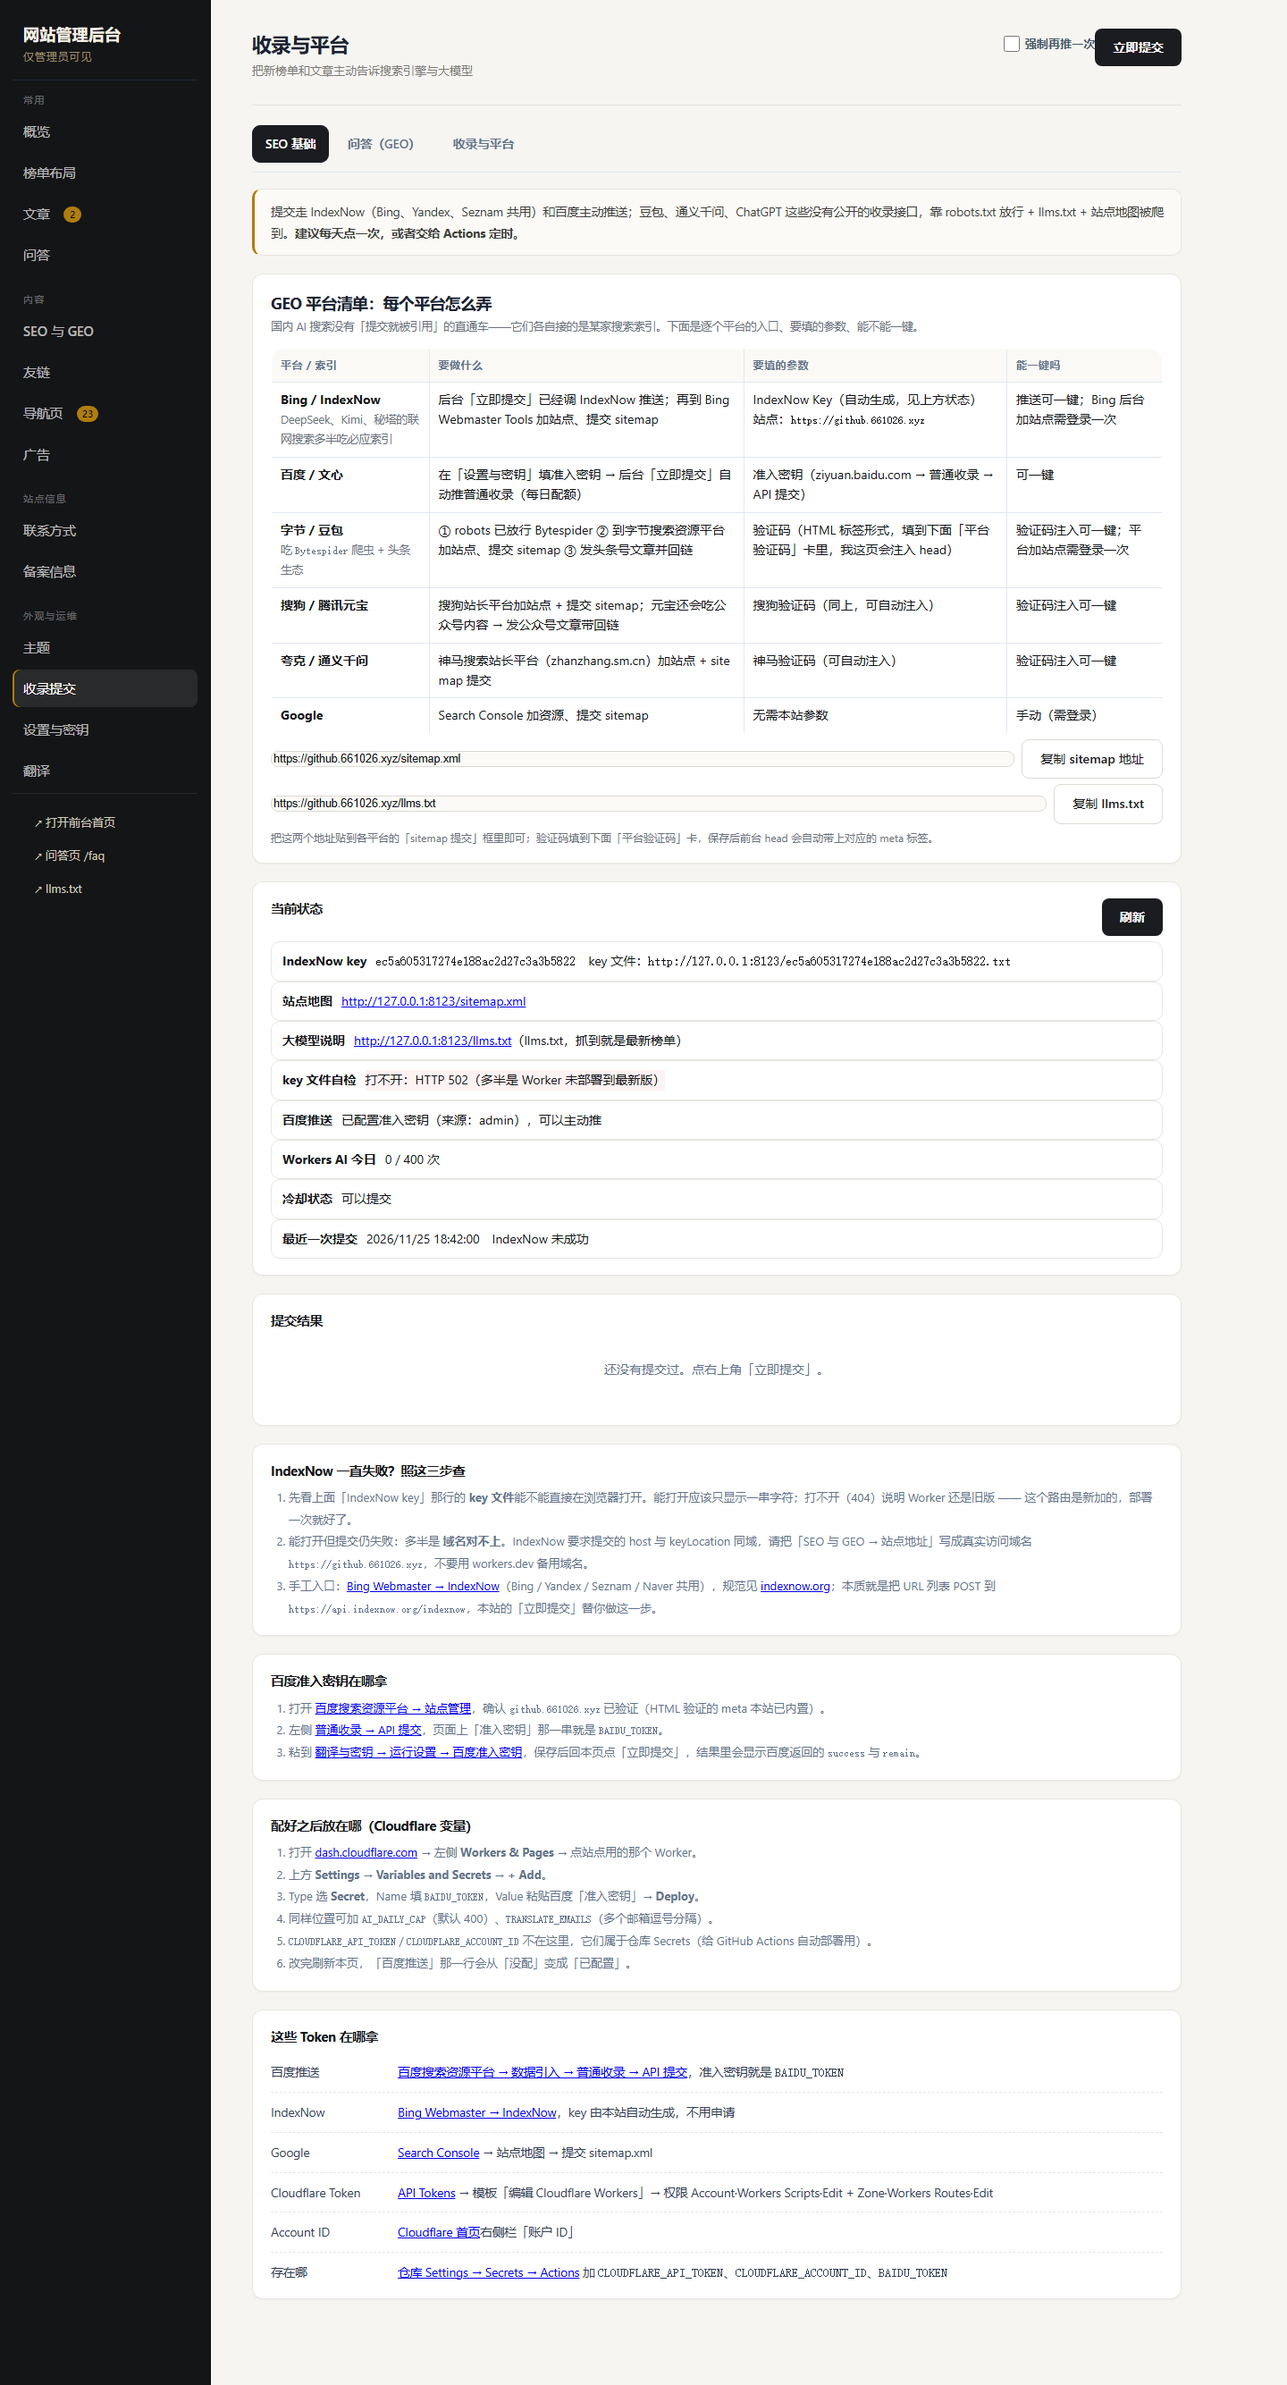
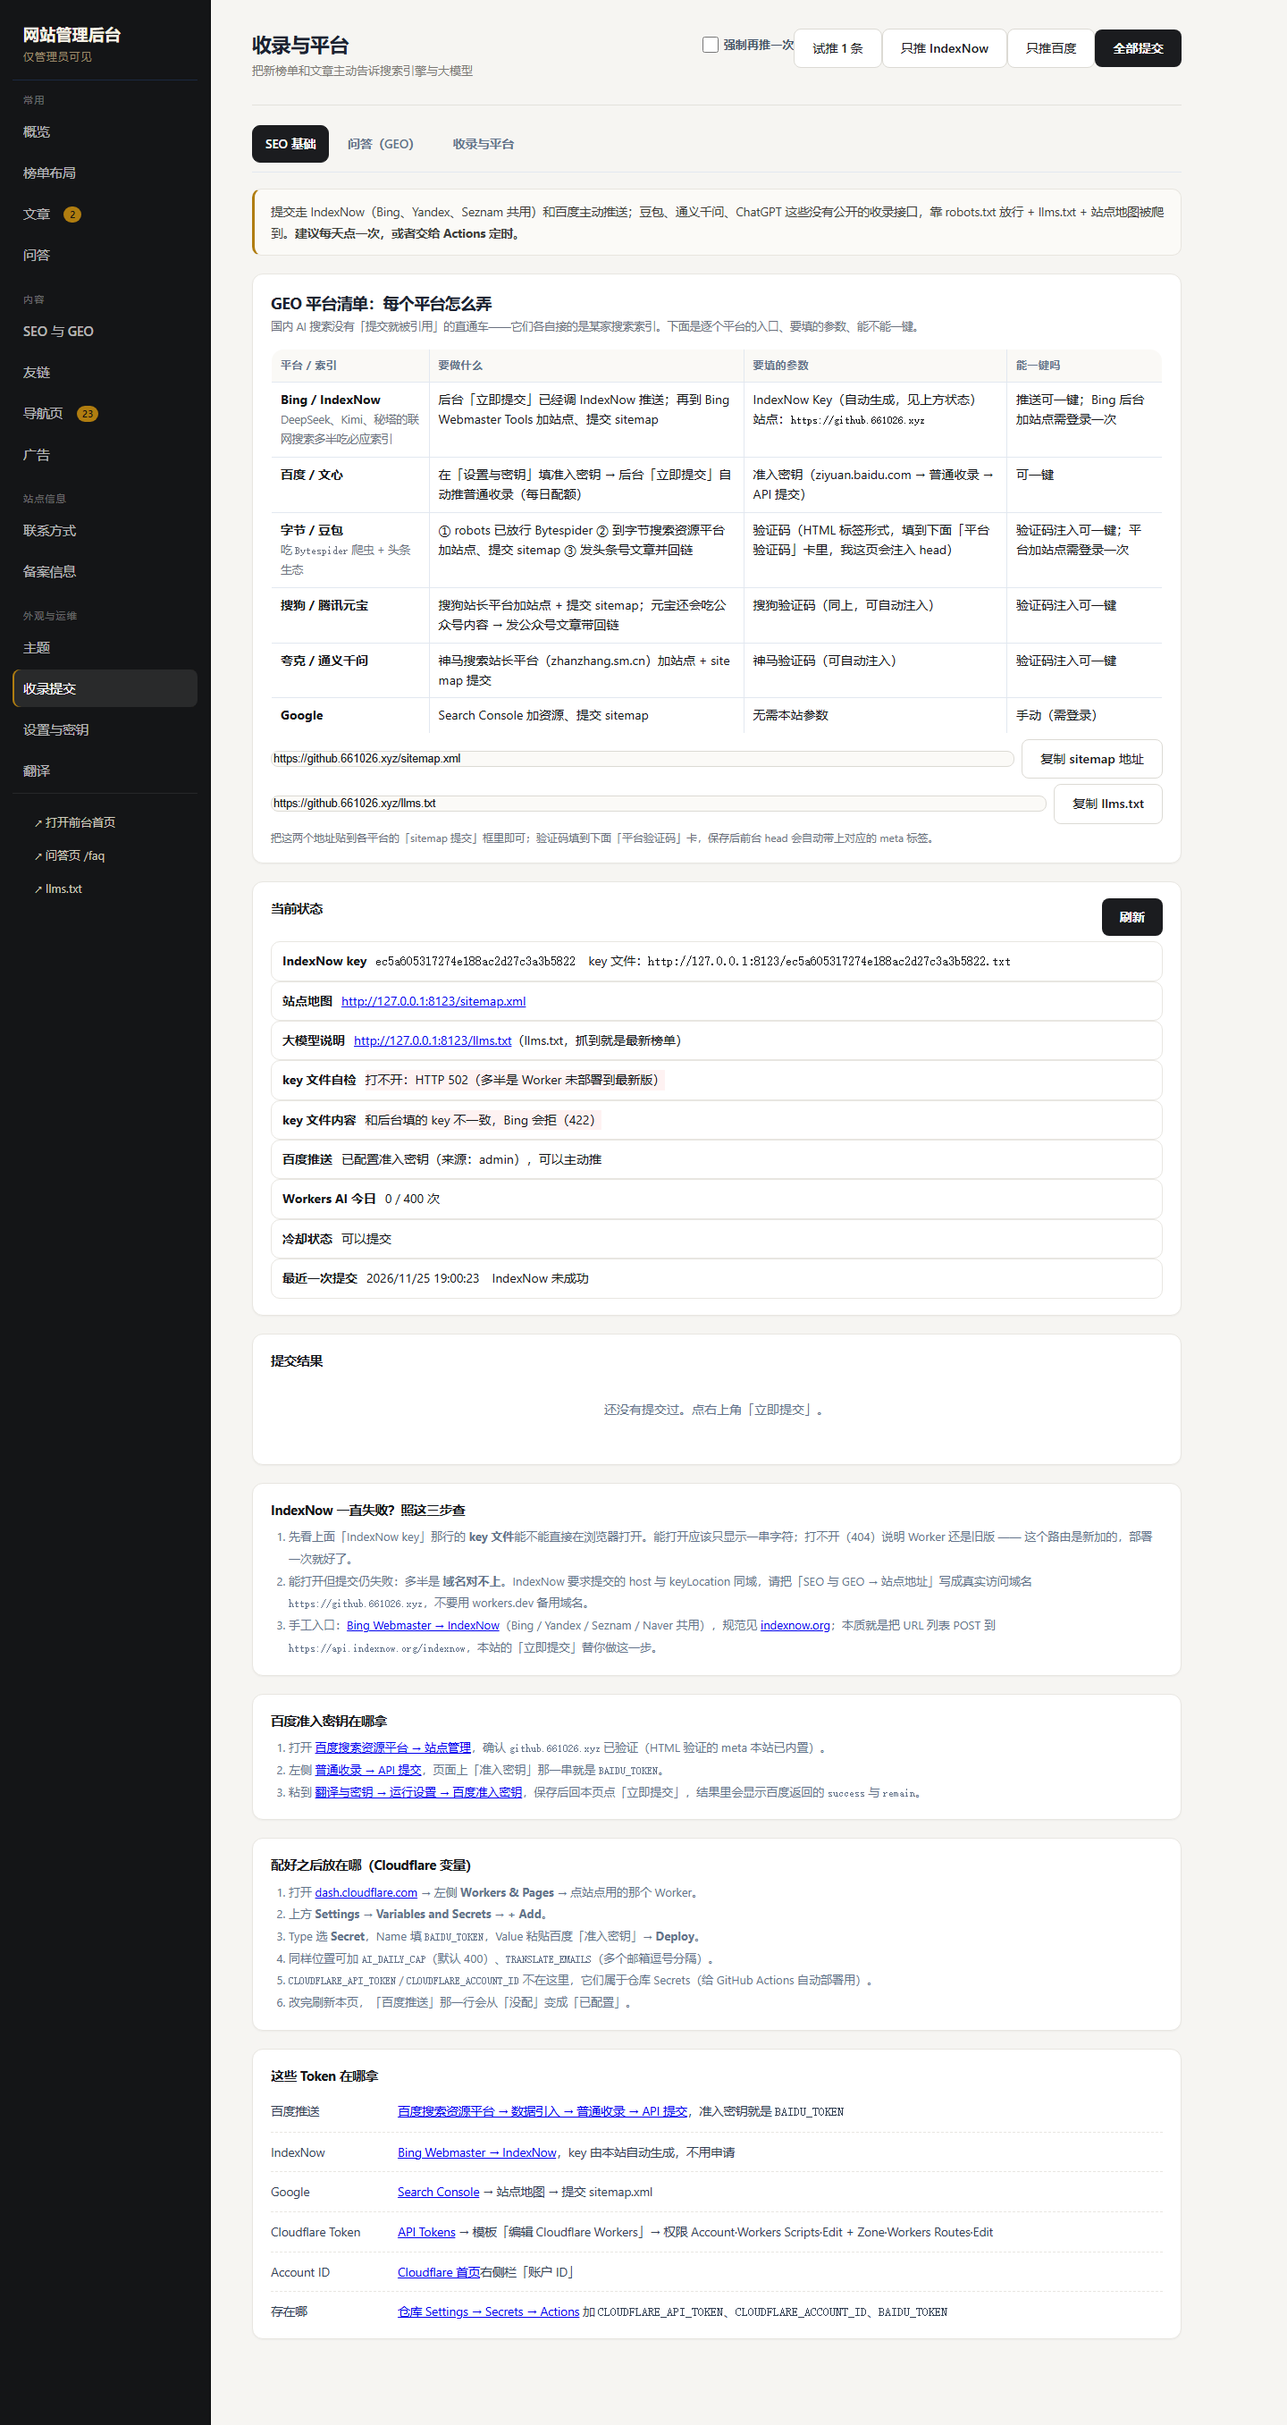
fix: IndexNow 诊断与自检 + sitemap 用 slug.html + 后台接线门禁
- /api/submit GET 增加 keyFileMatch（实拉 /<key>.txt 比对内容），返回体带 host/keyLocation/test
- POST 支持 test=true 只推首页一条；202/429/422/403 各有中文说明（202 即成功）
- 后台收录提交加「试推 1 条」与「key 文件内容」状态行
- sitemap 复用 fillArticleSlugs()，文章地址从 /articles#id 改为 /articles/<分类>/<序号>.html
- 新增 scripts/check-pane-wiring.mjs：TABS↔pane、保存入口、data-save 合法性、输入框有人读
- docs：操作手册补 IndexNow 状态码与 Bing 站长工具说明；优化建议 §26

diff --git a/worker.js b/worker.js
@@ -96,6 +96,7 @@ export default {
         const origin = seoSite.siteUrl ? seoSite.siteUrl.replace(/\/+$/, '') : url.origin;
         const arts = await rawJson(env, 'data/articles.json');
         const list = Array.isArray(arts) ? arts : [];
+        fillArticleSlugs(list);
         let xml = '<?xml version="1.0" encoding="UTF-8"?>\n<urlset xmlns="http://www.sitemaps.org/schemas/sitemap/0.9">\n';
         const today = todayBJ().slice(0, 10);
         xml += '  <url><loc>' + origin + '/</loc><lastmod>' + today + '</lastmod><changefreq>daily</changefreq><priority>1.0</priority></url>\n';
@@ -1773,6 +1774,7 @@ async function handleSubmit(request, env, origin) {
         keyFile: origin + '/' + keyNow + '.txt',
         keyFileOk: keyOk,
         keyFileNote: keyNote,
+        keyFileMatch: keyOk && String(keyNote).indexOf(keyNow) >= 0,
         indexKeySource: rtSubmit && rtSubmit.indexNowKey ? 'admin' : (env.INDEXNOW_KEY ? 'env' : 'auto'),
         sitemap: origin + '/sitemap.xml',
         llms: origin + '/llms.txt',
@@ -1820,7 +1822,11 @@ async function handleSubmit(request, env, origin) {
     if (a && a.id) urls.push(root + '/articles/' + String(a.slug || a.id).split('/').map(encodeURIComponent).join('/') + '.html');
   });
   const want = String(body.action || 'all');
-  const out = { ok: true, urls: urls.length, root: root, results: {} };
+  if (body.test === true) {
+    urls.length = 0;
+    urls.push(root + '/');
+  }
+  const out = { ok: true, urls: urls.length, root: root, host: host, keyLocation: root + '/' + keyNow + '.txt', test: body.test === true, results: {} };
 
   const sigNow = urls.join('\n');
   const sameBatch = !!(prevRun && prevRun.sig === sigNow && body.force !== true);
@@ -1842,7 +1848,9 @@ async function handleSubmit(request, env, origin) {
       const rawText = await r.text().catch(() => '');
       const good = r.ok || r.status === 202;
       let note;
-      if (good) note = '已收下，等搜索引擎自己来抓（通常几分钟到几小时）';
+      if (good) note = r.status === 202
+        ? '已接收（202）：Bing / Yandex 收下了。要在 Bing 站长工具的「IndexNow」页看到记录，必须先在 Bing 站长工具里添加并验证本站；实际抓取通常 24–72 小时内反馈'
+        : '已接收（200）：等搜索引擎自己来抓（通常几分钟到几小时）';
       else if (r.status === 429) note = '被限流了（TooManyRequests）：IndexNow 对同一批地址有频率限制，等 10 分钟再试；本站下次会自动跳过重复批次';
       else if (r.status === 422) note = 'Key 校验没过：确认站点根目录的 key 文件能打开，且提交的 host 与 keyLocation 同域';
       else if (r.status === 403) note = 'Key 文件打不开或内容不对：先把 Worker 部署到最新版，再回本页点「刷新」看自检那行';
@@ -2455,29 +2463,9 @@ function todayBJ() {
   return new Date(Date.now() + 8 * 3600000).toISOString().slice(0, 10);
 }
 
-// 从仓库读 data/articles.json：文件不存在视为 []
-async function readArticles(env) {
-  const miss = checkConfig(env);
-  if (miss.length) return { ok: false, status: 500, error: '还没配置变量：' + miss.join('、') };
-  const cur = await gh(env, '/contents/' + ARTICLES_FILE + '?ref=' + encodeURIComponent(branch(env)));
-  if (cur.status === 404) return { ok: true, status: 404, articles: [], sha: null };
-  if (!cur.ok || !cur.data) {
-    return { ok: false, status: cur.status, error: '读取文章失败：' + cur.status + ' ' + cur.text.slice(0, 200) };
-  }
-  let articles = [];
-  try {
-    const bin = atob(String(cur.data.content || '').replace(/\n/g, ''));
-    const txt = new TextDecoder().decode(Uint8Array.from(bin, (c) => c.charCodeAt(0)));
-    if (txt.trim()) {
-      const parsed = JSON.parse(txt);
-      if (!Array.isArray(parsed)) throw new Error('not array');
-      articles = parsed;
-    }
-  } catch (e) {
-    return { ok: false, status: 500, error: 'data/articles.json 不是合法的 JSON 数组，请先在仓库里修正' };
-  }
-  if (articles.length) {
-    var catMax = {};
+// 给没有 slug 的文章补「分类词/序号」，并保证同批不重名
+function fillArticleSlugs(articles) {
+  var catMax = {};
     articles.forEach(function (a) {
       if (!a || !a.slug) return;
       var parts = String(a.slug).split('/');
@@ -2500,7 +2488,30 @@ async function readArticles(env) {
       if (usedSlug[a.slug]) a.slug = a.slug + '-' + (usedSlug[a.slug] + 1);
       usedSlug[a.slug] = (usedSlug[a.slug] || 0) + 1;
     });
+}
+
+// 从仓库读 data/articles.json：文件不存在视为 []
+async function readArticles(env) {
+  const miss = checkConfig(env);
+  if (miss.length) return { ok: false, status: 500, error: '还没配置变量：' + miss.join('、') };
+  const cur = await gh(env, '/contents/' + ARTICLES_FILE + '?ref=' + encodeURIComponent(branch(env)));
+  if (cur.status === 404) return { ok: true, status: 404, articles: [], sha: null };
+  if (!cur.ok || !cur.data) {
+    return { ok: false, status: cur.status, error: '读取文章失败：' + cur.status + ' ' + cur.text.slice(0, 200) };
   }
+  let articles = [];
+  try {
+    const bin = atob(String(cur.data.content || '').replace(/\n/g, ''));
+    const txt = new TextDecoder().decode(Uint8Array.from(bin, (c) => c.charCodeAt(0)));
+    if (txt.trim()) {
+      const parsed = JSON.parse(txt);
+      if (!Array.isArray(parsed)) throw new Error('not array');
+      articles = parsed;
+    }
+  } catch (e) {
+    return { ok: false, status: 500, error: 'data/articles.json 不是合法的 JSON 数组，请先在仓库里修正' };
+  }
+  fillArticleSlugs(articles);
   return { ok: true, status: 200, articles: articles, sha: cur.data.sha || null };
 }
 
@@ -3479,7 +3490,7 @@ tr:hover td{background:#fcfbf8}
         <section class="pane" id="pane-submit" hidden>
       <div class="bar">
         <div><h1>收录与平台</h1><p class="sub">把新榜单和文章主动告诉搜索引擎与大模型</p></div>
-        <div class="bar-actions"><label class="toggle inline"><input type="checkbox" id="subForce"> 强制再推一次</label><button class="btn ghost" type="button" id="subRunIN">只推 IndexNow</button><button class="btn ghost" type="button" id="subRunBD">只推百度</button><button class="btn primary" type="button" id="subRun">全部提交</button></div>
+        <div class="bar-actions"><label class="toggle inline"><input type="checkbox" id="subForce"> 强制再推一次</label><button class="btn ghost" type="button" id="subTest">试推 1 条</button><button class="btn ghost" type="button" id="subRunIN">只推 IndexNow</button><button class="btn ghost" type="button" id="subRunBD">只推百度</button><button class="btn primary" type="button" id="subRun">全部提交</button></div>
       </div>
               <div class="segtabs" data-group="seogeo"><button type="button" class="is-on" data-go="seo">SEO 基础</button><button type="button" data-go="qa">问答（GEO）</button><button type="button" data-go="submit">收录与平台</button></div>
       <p class="intro">提交走 IndexNow（Bing、Yandex、Seznam 共用）和百度主动推送；豆包、通义千问、ChatGPT 这些没有公开的收录接口，靠 robots.txt 放行 + llms.txt + 站点地图被爬到。<b>建议每天点一次，或者交给 Actions 定时。</b></p>
@@ -4711,6 +4722,7 @@ tr:hover td{background:#fcfbf8}
         subLine('站点地图', '<a href="' + navEsc(s.sitemap) + '" target="_blank" rel="noopener">' + navEsc(s.sitemap) + '</a>', true) +
         subLine('大模型说明', '<a href="' + navEsc(s.llms) + '" target="_blank" rel="noopener">' + navEsc(s.llms) + '</a>（llms.txt，抓到就是最新榜单）', true) +
         subLine('key 文件自检', s.keyFileOk ? '能访问　' + navEsc(s.keyFileNote || '') : '打不开：' + navEsc(s.keyFileNote || '未知原因') + '（多半是 Worker 未部署到最新版）', !!s.keyFileOk) +
+        subLine('key 文件内容', s.keyFileMatch ? '与后台填的 key 一致（IndexNow 会来读这个文件校验）' : '和后台填的 key 不一致，Bing 会拒（422）', !!s.keyFileMatch) +
         subLine('百度推送', s.baiduToken ? '已配置准入密钥（来源：' + navEsc(s.baiduTokenSource || 'env') + '），可以主动推' : '没填准入密钥，点提交时会跳过百度', !!s.baiduToken) +
         subLine('Workers AI 今日', s.aiUsage ? (s.aiUsage.used + ' / ' + (s.aiUsage.unlimited ? '不限制' : s.aiUsage.cap) + ' 次' + (s.aiUsage.capSource === 'admin' ? '（上限来自后台）' : '')) : '—', true) +
         subLine('冷却状态', (s.cooldown && s.cooldown.seconds > 0) ? '还要等 ' + s.cooldown.seconds + ' 秒才能再推（防 IndexNow 429）' : '可以提交', !(s.cooldown && s.cooldown.seconds > 0)) +
@@ -4726,7 +4738,7 @@ tr:hover td{background:#fcfbf8}
     loadSubmit();
   });
   var subAction = 'all';
-  function runSubmit(action) {
+  function runSubmit(action, isTest) {
     subAction = action || 'all';
     var btn = $('subRun');
     var out = $('subOut');
@@ -4734,7 +4746,7 @@ tr:hover td{background:#fcfbf8}
     btn.textContent = '提交中…';
     out.innerHTML = '<p class="note">正在提交…</p>';
     var forceEl = $('subForce');
-    api('/api/submit', { method: 'POST', body: { password: pw, action: subAction, force: !!(forceEl && forceEl.checked) } }).then(function (r) {
+    api('/api/submit', { method: 'POST', body: { password: pw, action: subAction, test: !!isTest, force: !!(forceEl && forceEl.checked) } }).then(function (r) {
       btn.disabled = false;
       btn.textContent = '全部提交';
       if (!r.ok) {
@@ -4752,6 +4764,7 @@ tr:hover td{background:#fcfbf8}
     });
   }
   $('subRun').addEventListener('click', function () { runSubmit('all'); });
+  if ($('subTest')) $('subTest').addEventListener('click', function () { runSubmit('all', true); });
   $('subRunIN').addEventListener('click', function () { runSubmit('indexnow'); });
   $('subRunBD').addEventListener('click', function () { runSubmit('baidu'); });
 

diff --git a/docs/优化建议.md b/docs/优化建议.md
@@ -414,3 +414,22 @@ node scripts/check-worker.mjs      # 本地模拟 Workers 运行时，30+ 项断
 | 自检 | `check-worker` §25：分类保存→回读、重复/非法被拒、slug 用英文 key、301→.html→200、sitemap 用 .html、后台有分类表 |
 
 踩坑：dev-server 是**启动时**拷贝一份 worker.js，改完 worker 必须重启，否则测的是旧代码（本轮因此出现「分类保存了但 slug 还是 cat/1」的假象）。
+
+## 26. 第二十六批：IndexNow 真因 + 后台接线门禁
+
+用户反馈「IndexNow 从来没成功过、Bing 后台没有提交记录」。逐层实测后定位：**协议层一直是通的，问题在"看不到反馈"和"同批被限流"**。
+
+| 查的什么 | 实测结果 | 说明 |
+| --- | --- | --- |
+| key 文件 | `GET /<key>.txt` → 200 `text/plain`，内容与 key 完全一致 | 文件没问题（`keyFileOk / keyFileMatch` 现在后台可见） |
+| 直接 POST api.indexnow.org | **202 Accepted**，无 `x-ratelimit` 头 | 202 就是成功，不是失败 |
+| 我们自己的 `/api/submit` | 上一轮记录里 `429 TooManyRequests`（同一批地址反复推） | 已加 10 分钟冷却 + 同批自动跳过 + 「试推 1 条」 |
+| Bing 后台无记录 | 需要先在 Bing 站长工具「添加并验证站点」，IndexNow 页才统计，反馈 24–72 小时 | 不是 API 失败 |
+
+改动：
+- `handleSubmit` GET 多 `keyFileMatch`（实拉 key 文件比对内容）、返回体多 `host` / `keyLocation` / `test`；
+- POST 支持 `test: true` → 只推首页 1 条，用来排除批量限流；
+- 202 / 429 / 422 / 403 各有中文说明（后台「提交结果」直接显示原始返回体）；
+- 后台收录提交多一个「试推 1 条」按钮 + 「key 文件内容」状态行。
+
+新增门禁 `scripts/check-pane-wiring.mjs`（四段）：TABS↔pane 一一对应、每个 pane 有保存入口、每个 `data-save` 的 section 合法、每个输入框都有人读。踩坑：`data-save="nav"`/`"qa"` 走专用接口 `/api/nav`、`/api/qa` 不在 `SITE_SECTIONS`；`contact-*`/`beian-*`/`seo-*` 由 `FIELDS[sec].forEach(k => $(sec + '-' + k))` 动态读；`vf*` 由 `[data-vf]` 选择器读；`geoSm`/`geoLlms` 是 readonly 复制框——这四类都要白名单，否则 25 条全是误报。

diff --git a/docs/操作手册.md b/docs/操作手册.md
@@ -92,6 +92,8 @@
   - **MyMemory 联系邮箱**（最多 20 个）：Gmail / Outlook 支持 `名字+1@gmail.com` 这种别名，都进同一个信箱；页面上的「按 +别名 生成 5 个」按钮会按第一个邮箱自动补 5 个。
   - **Workers AI 每天最多调用多少次**：留空 = 用环境变量 `AI_DAILY_CAP`，或默认 400；填 **0 = 不限制**；可填 1–100000 的整数。到上限这条链路自动停，只用 MyMemory + 译文缓存，不报错也不扣钱。
   - 环境变量同名的仍然有效，只是**优先级低于后台设置**（后台填了就以后台为准，后台留空才读变量）。
+- **IndexNow 的三个状态码**：`200` / `202` = 受理成功（202 是「已接受，稍后处理」，就是成功）；`422` = key 文件里的内容和你提交的 key 不一致；`403` = key 文件打不开（Worker 版本太旧或路径不对）；`429` = 同一批地址推太频繁（本站已做 10 分钟冷却 + 同批自动跳过，勾「强制再推一次」可绕过）。
+- **Bing 后台看不到记录 ≠ 失败**：Bing 只在「Bing 站长工具 → 添加并验证该站点」之后才统计 IndexNow 提交（[IndexNow 页](https://www.bing.com/webmasters/indexnow)），而且反馈要 24–72 小时；协议层返回 202 就代表收下了。后台「试推 1 条」按钮只推首页一条，用来排除「批量被限流」这种可能；「当前状态」里的「key 文件内容」一行会实拉 `/<key>.txt` 比对，显示一致才可能被 422 拒。
 - **Workers AI 会不会超额度**：每天有 10,000 Neurons 免费额度，`m2m100-1.2b` 属于小模型，一次调用消耗很小，400 次大约只用到几百 Neuron。真想放开就把上限调到 2000–5000，仍远在免费线内。
 - **`github.com/.../settings/secrets/actions` 打不开是正常的**：这个页面只有**登录状态下、且对该仓库有管理员权限**才可见，否则一律 404（也可能是打开的是别人的同名仓库）。正确路径：仓库首页 → **Settings** 标签 → 左侧 **Secrets and variables** → **Actions**。没有 Settings 标签就说明当前账号没有管理权。
 
